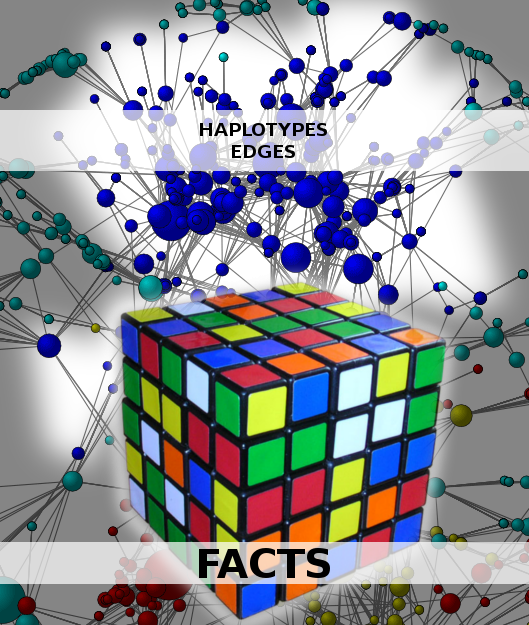
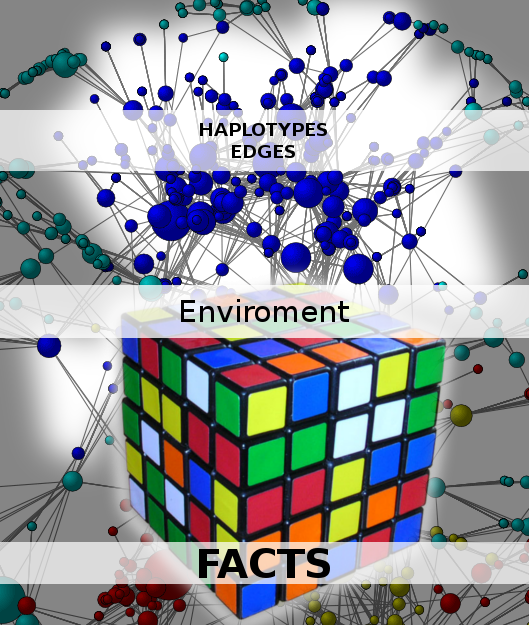
fixed a lot of thigs

Changed region(s): [[0.0, 0.456, 1.0, 0.5472]]

diff --git a/2014/yatel_talk/script.py b/2014/yatel_talk/script.py
@@ -1,0 +1,153 @@
+#!/usr/bin/env python
+# -*- coding: utf-8 -*-
+
+#===============================================================================
+# CREATION
+#===============================================================================
+
+from yatel import dom, db
+
+# postgres, oracle, mysql, and many more
+nw = db.YatelNetwork("memory", mode="w")
+
+elems = [
+    dom.Haplotype(0, name="Cordoba"), # left
+    dom.Haplotype(1, name="Cordoba"), # right
+    dom.Haplotype(2, name="Cordoba"), # bottom
+
+    dom.Edge(6599, (0, 1)),
+    dom.Edge(8924, (1, 2)),
+    dom.Edge(9871, (2, 0)),
+
+    dom.Fact(0, name="Andalucia", lang="sp", timezone="utc-3"),
+    dom.Fact(1, lang="sp"),
+    dom.Fact(1, timezone="utc-6"),
+    dom.Fact(2, name="Andalucia", lang="sp", timezone="utc")
+]
+
+nw.add_elements(elems)
+nw.confirm_changes()
+
+
+#===============================================================================
+# QUERY 1
+#===============================================================================
+
+print nw.describe()
+# {
+#   'haplotype_attributes': {
+#       'hap_id': <type 'int'>,
+#       'name': <type 'str'>
+#   },
+#  'fact_attributes': {
+#       'idioma': <type 'str'>,
+#       'timezone': <type 'str'>,
+#       'hap_id': <type 'int'>,
+#       'name': <type 'str'>},
+#   'mode': 'r',
+#   'edge_attributes': {u'max_nodes': 2, u'weight': <type 'float'>},
+#   'size': {u'facts': 4, u'haplotypes': 3, u'edges': 3}
+# }
+
+for hap in nw.haplotypes():
+    print hap
+# <Haplotype (0) at 0x2cb8710>
+# <Haplotype (1) at 0x2cb8810>
+# <Haplotype (2) at 0x2cb8850>
+
+for edge in nw.edges():
+    print edge
+# <Edge ([6599.0 [0, 1]]  ) at 0x2cb64d0>
+# <Edge ([8924.0 [1, 2]]  ) at 0x2cb6dd0>
+# <Edge ([9871.0 [2, 0]]  ) at 0x2cb6fd0>
+
+for fact in nw.facts():
+    print fact
+# <Fact (of Haplotype '0') at 0x2cb6f50>
+# <Fact (of Haplotype '1') at 0x2cb6ed0>
+# <Fact (of Haplotype '1') at 0x2cb6c50>
+# <Fact (of Haplotype '2') at 0x2cb6e90>
+
+#===============================================================================
+# QUERY 2
+#===============================================================================
+
+hap = nw.haplotype_by_id(2)
+
+for edge in nw.edges_by_haplotype(hap):
+    print edge
+# <Edge ([9871.0 [2, 0]]  ) at 0x1cf6910>,
+# <Edge ([8924.0 [1, 2]]  ) at 0x1cf6810>
+
+for fact in nw.facts_by_haplotype(hap):
+    print dict(fact)
+# {u'timezone': u'utc', u'lang': u'sp', 'hap_id': 2, u'name': u'Andalucia'}
+
+for hap in nw.haplotypes_by_enviroment(lang="sp"):
+    print hap
+# <Haplotype (0) at 0x254bfd0>
+# <Haplotype (1) at 0x254bc10>
+# <Haplotype (2) at 0x254bfd0>
+
+for hap in nw.haplotypes_by_enviroment(timezone="utc-6"):
+    print hap
+# <Haplotype (1) at 0x14a8210>
+
+for hap in nw.haplotypes_by_enviroment(name="Andalucia"):
+    print hap
+# <Haplotype (0) at 0x254bb50>
+# <Haplotype (2) at 0x254bfd0>
+
+#===============================================================================
+# QUERY 3
+#===============================================================================
+
+for edge in nw.edges_by_enviroment(name="Andalucia"):
+    print edge
+# <Edge ([9871.0 [2, 0]]  ) at 0x23e3ad0>
+
+for env in nw.enviroments():
+    print env
+# <Enviroment {u'lang': u'sp', u'timezone': u'utc-3', u'name': u'Andalucia'} at 0x1f6b490>
+# <Enviroment {u'lang': u'sp', u'timezone': None, u'name': None} at 0x1f6b810>
+# <Enviroment {u'lang': None, u'timezone': u'utc-6', u'name': None} at 0x1f6b490>
+# <Enviroment {u'lang': u'sp', u'timezone': u'utc', u'name': u'Andalucia'} at 0x1f6b810>
+
+for env in nw.enviroments(["lang", "name"]):
+    print env
+# <Enviroment {u'lang': u'sp', u'name': u'Andalucia'} at 0x1aa4950>
+# <Enviroment {u'lang': u'sp', u'name': None} at 0x1aa45d0>
+# <Enviroment {u'lang': None, u'name': None} at 0x1aa4950>
+
+from yatel import stats
+
+print stats.average(nw)
+# 8464.66666667
+print stats.std(nw, name="Andalucia")
+# 1374.70877724
+
+
+#===============================================================================
+# DATA MINNING
+#===============================================================================
+
+from scipy.spatial.distance import euclidean
+from yatel.cluster import kmeans
+
+cbs, distortion = kmeans.kmeans(nw, nw.enviroments(), 2)
+
+for env in nw.enviroments():
+    coords = kmeans.hap_in_env_coords(nw, env)
+    min_euc = None
+    closest_centroid = None
+    for cb in cbs:
+        euc = euclidean(cb, coords)
+        if min_euc is None or euc < min_euc:
+            min_euc = euc
+            closest_centroid = cb
+    print "{} || {} || {}".format(dict(env), closest_centroid, euc)
+# {u'lang': u'sp', u'timezone': u'utc-3', u'name': u'Andalucia'} || [0 0 0] || 1.41421356237
+# {u'lang': u'sp', u'timezone': None, u'name': None} || [0 1 0] || 0.0
+# {u'lang': None, u'timezone': u'utc-6', u'name': None} || [0 1 0] || 0.0
+# {u'lang': u'sp', u'timezone': u'utc', u'name': u'Andalucia'} || [0 0 0] || 1.41421356237
+

diff --git a/2014/yatel_talk/slides.rst b/2014/yatel_talk/slides.rst
@@ -511,6 +511,158 @@ En que se puede aportar
 - Documentación (mucha)
 
 
+Yatel - Ejemplo - Creación
+--------------------------
+
+.. code-block:: python
+
+    from yatel import dom, db
+
+    # postgres, oracle, mysql, and many more
+    nw = db.YatelNetwork("memory", mode="w")
+
+    elems = [
+        dom.Haplotype(0, name="Cordoba"), # left
+        dom.Haplotype(1, name="Cordoba"), # right
+        dom.Haplotype(2, name="Cordoba"), # bottom
+
+        dom.Edge(6599, (0, 1)),
+        dom.Edge(8924, (1, 2)),
+        dom.Edge(9871, (2, 0)),
+
+        dom.Fact(0, name="Andalucia", lang="sp", timezone="utc-3"),
+        dom.Fact(1, lang="sp"),
+        dom.Fact(1, timezone="utc-6"),
+        dom.Fact(2, name="Andalucia", lang="sp", timezone="utc")
+    ]
+
+    nw.add_elements(elems)
+    nw.confirm_changes()
+
+
+Yatel - Ejemplo - Consultas #1
+------------------------------
+
+.. code-block:: python
+
+    print nw.describe()
+    # {
+    #   'haplotype_attributes': { 'hap_id': <type 'int'>, 'name': <type 'str'>},
+    #  'fact_attributes': { 'lang': <type 'str'>, 'timezone': <type 'str'>,
+    #                       'hap_id': <type 'int'>, 'name': <type 'str'>},
+    #   'mode': 'r',
+    #   'edge_attributes': {u'max_nodes': 2, u'weight': <type 'float'>},
+    #   'size': {u'facts': 4, u'haplotypes': 3, u'edges': 3}
+    # }
+
+    for hap in nw.haplotypes():
+        print hap
+    # <Haplotype (0) at 0x2cb8710>
+    # <Haplotype (1) at 0x2cb8810>
+    # <Haplotype (2) at 0x2cb8850>
+
+    for edge in nw.edges():
+        print edge
+    # <Edge ([6599.0 [0, 1]]  ) at 0x2cb64d0>
+    # <Edge ([8924.0 [1, 2]]  ) at 0x2cb6dd0>
+    # <Edge ([9871.0 [2, 0]]  ) at 0x2cb6fd0>
+
+    for fact in nw.facts():
+        print fact
+    # <Fact (of Haplotype '0') at 0x2cb6f50>
+    # <Fact (of Haplotype '1') at 0x2cb6ed0>
+    # <Fact (of Haplotype '1') at 0x2cb6c50>
+    # <Fact (of Haplotype '2') at 0x2cb6e90>
+
+
+Yatel - Ejemplo - Consultas #2
+------------------------------
+
+.. code-block:: python
+
+    hap = nw.haplotype_by_id(2)
+
+    for edge in nw.edges_by_haplotype(hap):
+        print edge
+    # <Edge ([9871.0 [2, 0]]  ) at 0x1cf6910>,
+    # <Edge ([8924.0 [1, 2]]  ) at 0x1cf6810>
+
+    for fact in nw.facts_by_haplotype(hap):
+        print dict(fact)
+    # {u'timezone': u'utc', u'lang': u'sp', 'hap_id': 2, u'name': u'Andalucia'}
+
+    for hap in nw.haplotypes_by_enviroment(lang="sp"):
+        print hap
+    # <Haplotype (0) at 0x254bfd0>
+    # <Haplotype (1) at 0x254bc10>
+    # <Haplotype (2) at 0x254bfd0>
+
+    for hap in nw.haplotypes_by_enviroment(timezone="utc-6"):
+        print hap
+    # <Haplotype (1) at 0x14a8210>
+
+    for hap in nw.haplotypes_by_enviroment(name="Andalucia"):
+        print hap
+    # <Haplotype (0) at 0x254bb50>
+    # <Haplotype (2) at 0x254bfd0>
+
+
+Yatel - Ejemplo - Consultas, Estadisticas
+-----------------------------------------
+
+.. code-block:: python
+
+    for edge in nw.edges_by_enviroment(name="Andalucia"):
+        print edge
+    # <Edge ([9871.0 [2, 0]]  ) at 0x23e3ad0>
+
+    for env in nw.enviroments():
+        print env
+    # <Enviroment {u'lang': u'sp', u'timezone': u'utc-3', u'name': u'Andalucia'} at 0x1f6b490>
+    # <Enviroment {u'lang': u'sp', u'timezone': None, u'name': None} at 0x1f6b810>
+    # <Enviroment {u'lang': None, u'timezone': u'utc-6', u'name': None} at 0x1f6b490>
+    # <Enviroment {u'lang': u'sp', u'timezone': u'utc', u'name': u'Andalucia'} at 0x1f6b810>
+
+    for env in nw.enviroments(["lang", "name"]):
+        print env
+    # <Enviroment {u'lang': u'sp', u'name': u'Andalucia'} at 0x1aa4950>
+    # <Enviroment {u'lang': u'sp', u'name': None} at 0x1aa45d0>
+    # <Enviroment {u'lang': None, u'name': None} at 0x1aa4950>
+
+    from yatel import stats
+
+    print stats.average(nw)
+    # 8464.66666667
+    print stats.std(nw, name="Andalucia")
+    # 1374.70877724
+
+
+Yatel - Ejemplo - Data Minning
+------------------------------
+
+.. code-block:: python
+
+    from scipy.spatial.distance import euclidean
+    from yatel.cluster import kmeans
+
+    cbs, distortion = kmeans.kmeans(nw, nw.enviroments(), 2)
+
+    for env in nw.enviroments():
+        coords = kmeans.hap_in_env_coords(nw, env)
+        min_euc = None
+        closest_centroid = None
+        for cb in cbs:
+            euc = euclidean(cb, coords)
+            if min_euc is None or euc < min_euc:
+                min_euc = euc
+                closest_centroid = cb
+        print "{} || {} || {}".format(dict(env), closest_centroid, euc)
+    # {u'lang': u'sp', u'timezone': u'utc-3', u'name': u'Andalucia'} || [0 0 0] || 1.41421356237
+    # {u'lang': u'sp', u'timezone': None, u'name': None} || [0 1 0] || 0.0
+    # {u'lang': None, u'timezone': u'utc-6', u'name': None} || [0 1 0] || 0.0
+    # {u'lang': u'sp', u'timezone': u'utc', u'name': u'Andalucia'} || [0 0 0] || 1.41421356237
+
+
 Yatel Kaani - (Not even started)
 --------------------------------
 
